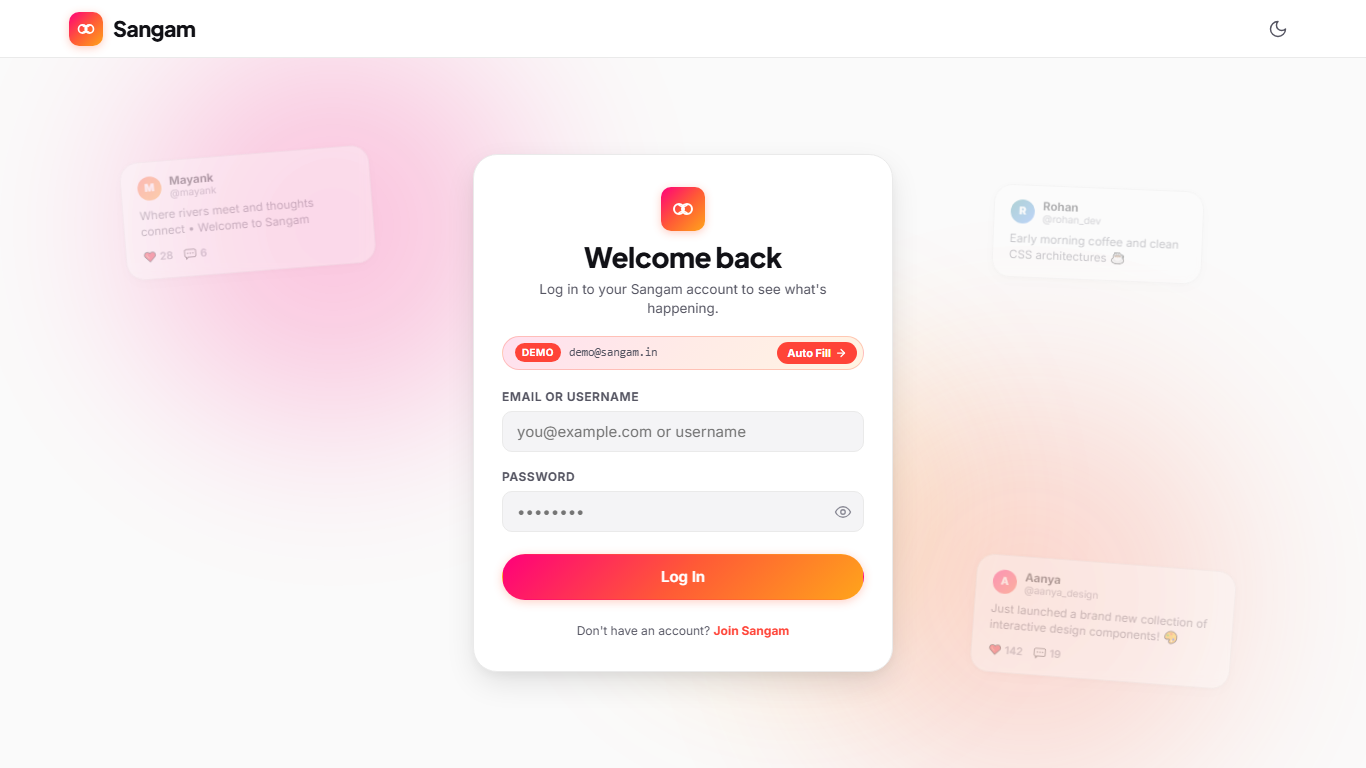
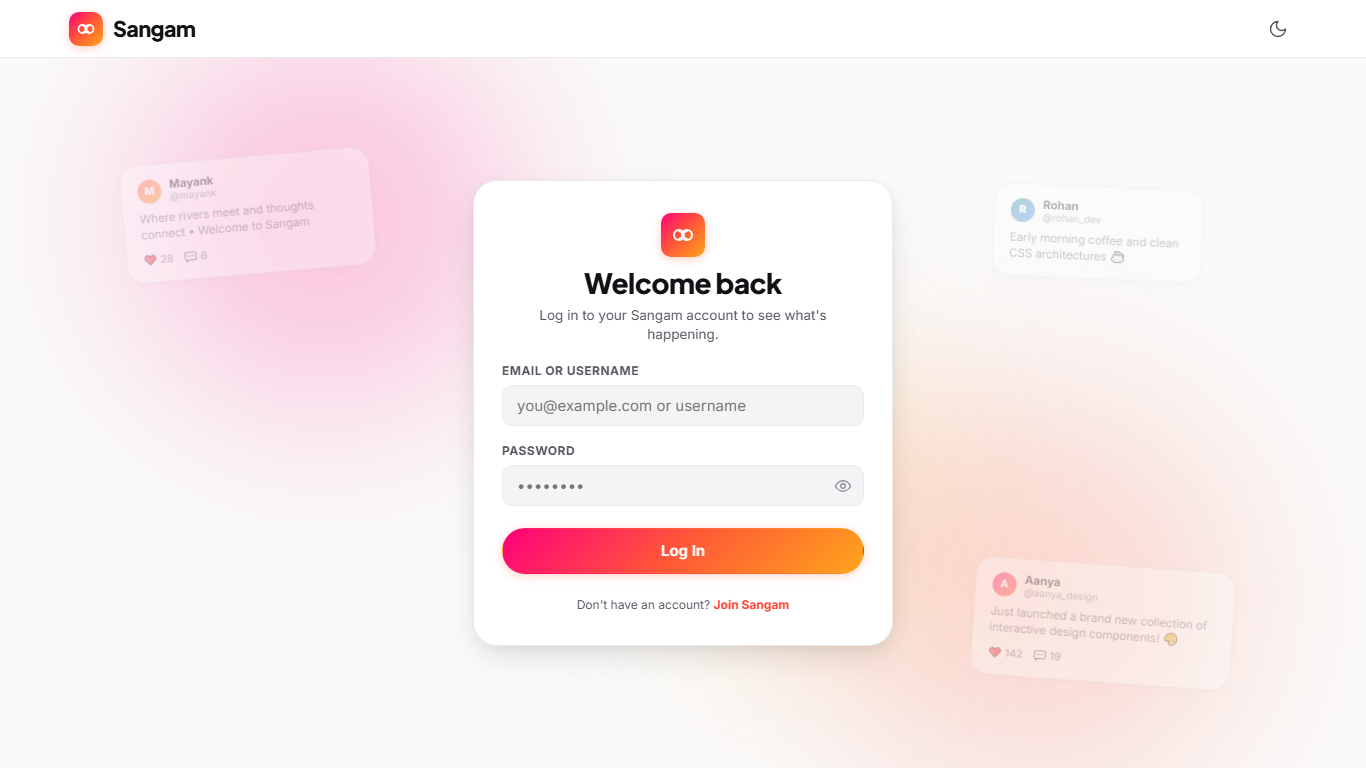
fix(auth): remove demo chip markup, styling, and auto-fill handler while preserving demo credentials

diff --git a/frontend/css/components.css b/frontend/css/components.css
@@ -1741,78 +1741,6 @@
   animation: fadeIn 0.2s ease;
 }
 
-/* Quick Demo Credentials Chip */
-.demo-credentials-chip {
-  background: var(--grad-sunrise-soft);
-  border: 1px solid rgba(255, 90, 54, 0.28);
-  border-radius: var(--rad-full);
-  padding: 5px 6px 5px 12px;
-  display: flex;
-  align-items: center;
-  justify-content: space-between;
-  gap: 8px;
-  font-size: var(--text-xs);
-  color: var(--text-main);
-  cursor: pointer;
-  transition: all var(--dur-fast) ease;
-  user-select: none;
-}
-
-.demo-credentials-chip:hover {
-  border-color: var(--primary);
-  background: rgba(255, 90, 54, 0.16);
-  transform: translateY(-1px);
-}
-
-.demo-chip-content {
-  display: flex;
-  align-items: center;
-  gap: 8px;
-  min-width: 0;
-  overflow: hidden;
-}
-
-.demo-chip-badge {
-  background: var(--primary);
-  color: #FFFFFF;
-  font-weight: 700;
-  font-size: 10px;
-  padding: 2px 7px;
-  border-radius: var(--rad-full);
-  text-transform: uppercase;
-  letter-spacing: 0.04em;
-  flex-shrink: 0;
-}
-
-.demo-chip-text {
-  color: var(--text-secondary);
-  font-size: 11.5px;
-  font-family: var(--font-mono);
-  overflow: hidden;
-  text-overflow: ellipsis;
-  white-space: nowrap;
-}
-
-.demo-chip-btn {
-  background: var(--primary);
-  color: #FFFFFF;
-  border: none;
-  border-radius: var(--rad-full);
-  padding: 4px 10px;
-  font-size: 11px;
-  font-weight: 700;
-  display: flex;
-  align-items: center;
-  gap: 4px;
-  cursor: pointer;
-  flex-shrink: 0;
-  transition: background var(--dur-fast), transform var(--dur-fast);
-}
-
-.demo-chip-btn:hover {
-  background: var(--primary-hover);
-}
-
 /* Input With Action Button (Password Toggle) */
 .input-with-action {
   position: relative;
@@ -1938,9 +1866,6 @@
   }
   .auth-title {
     font-size: var(--text-xl);
-  }
-  .demo-credentials-chip {
-    padding: 5px 6px 5px 10px;
   }
 }
 

diff --git a/frontend/js/pages/login.js b/frontend/js/pages/login.js
@@ -17,7 +17,6 @@ const form = document.getElementById('login-form');
 const emailInput = document.getElementById('login-email') || document.getElementById('login-identifier');
 const passwordInput = document.getElementById('login-password');
 const submitBtn = document.getElementById('login-submit-btn');
-const demoChip = document.getElementById('demo-fill-chip');
 const pwToggleBtn = document.getElementById('login-password-toggle');
 
 const emailError = document.getElementById('login-email-error');
@@ -142,24 +141,6 @@ const performLogin = async (login, password) => {
     }
   }
 };
-
-// 1-Click Demo Fill & Submit
-if (demoChip && emailInput && passwordInput) {
-  const handleAutoFill = (e) => {
-    e.preventDefault();
-    clearErrors();
-    emailInput.value = 'demo@sangam.in';
-    passwordInput.value = 'Demo@123';
-    performLogin('demo@sangam.in', 'Demo@123');
-  };
-
-  demoChip.addEventListener('click', handleAutoFill);
-  demoChip.addEventListener('keydown', (e) => {
-    if (e.key === 'Enter' || e.key === ' ') {
-      handleAutoFill(e);
-    }
-  });
-}
 
 // Form submit event
 if (form) {

diff --git a/frontend/pages/login.html b/frontend/pages/login.html
@@ -108,21 +108,6 @@
       <!-- General Banner Error (If any) -->
       <div class="form-banner-error" id="login-form-error" role="alert" style="display: none;"></div>
 
-      <!-- Quick Demo Credentials Chip -->
-      <div class="demo-credentials-chip" id="demo-fill-chip" role="button" tabindex="0" title="Click to auto-fill demo credentials and log in">
-        <div class="demo-chip-content">
-          <span class="demo-chip-badge">Demo</span>
-          <span class="demo-chip-text">demo@sangam.in</span>
-        </div>
-        <button type="button" class="demo-chip-btn" id="demo-autofill-btn" aria-label="Auto Fill and Log in">
-          <span>Auto Fill</span>
-          <svg width="12" height="12" viewBox="0 0 24 24" fill="none" stroke="currentColor" stroke-width="2.5" stroke-linecap="round" stroke-linejoin="round">
-            <path d="M5 12h14"></path>
-            <path d="m12 5 7 7-7 7"></path>
-          </svg>
-        </button>
-      </div>
-
       <!-- Login Form -->
       <form id="login-form" novalidate>
         <div class="form-group">
